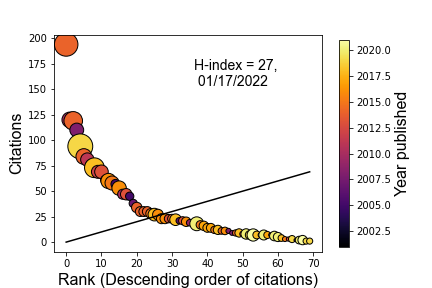
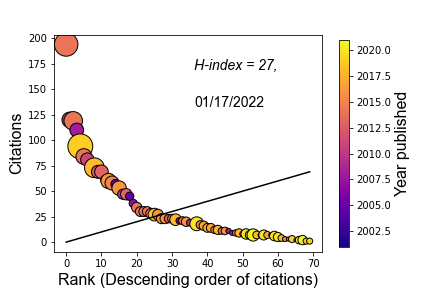
Nudge annotations right, add new figure.

diff --git a/PubPy.py b/PubPy.py
@@ -256,9 +256,10 @@ def quad_Hirsch_trim(fig, axs, pubs_dict, hirsch_plot, year, h, year_list):
         pub_year_list = list(range(pub_year_lims[0], pub_year_lims[1]))[::7]
     
 
+    rangex = max(limits['x']) - min(limits['x'])
     for ind, axes in enumerate(axs.flatten()):
-        axes.text(abs(1.7*min(limits['x'])), 0.85*max(limits['y']), 'H-index = '+str(h[ind])+',', fontdict=h_index_annotation_dict)
-        axes.text(abs(1.7*min(limits['x'])), 0.7*max(limits['y']), year[ind][4:6]+'/'+year[ind][6::]+'/'+year[ind][:4], fontdict=date_annotation_dict)
+        axes.text(abs(0.17*rangex+min(limits['x'])), 0.85*max(limits['y']), 'H-index = '+str(h[ind])+',', fontdict=h_index_annotation_dict)
+        axes.text(abs(0.17*rangex+min(limits['x'])), 0.7*max(limits['y']), year[ind][4:6]+'/'+year[ind][6::]+'/'+year[ind][:4], fontdict=date_annotation_dict)
         #Tick mark labels
         if ind < 2:
             axes.set_xticklabels([''])
